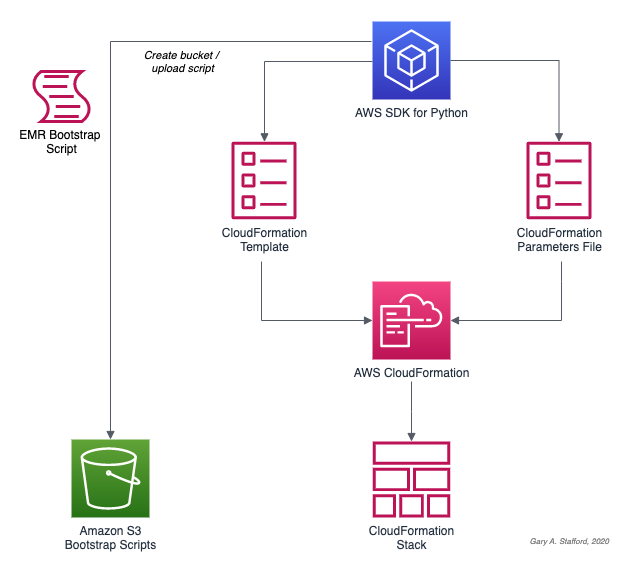
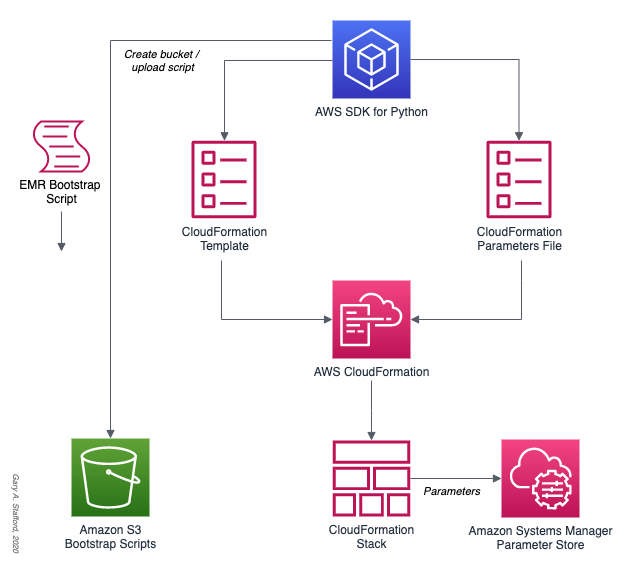
Add new master_public_dns parameter

diff --git a/parameters/parameters.py b/parameters/parameters.py
@@ -1,7 +1,7 @@
 #!/usr/bin/env python3
 
 # Purpose: Get SSM Parameter Store parameters
-# Author:  Gary A. Stafford (November 2020)
+# Author:  Gary A. Stafford (December 2020)
 
 import boto3
 
@@ -22,6 +22,7 @@ def get_parameters():
         'glue_db_bucket': ssm_client.get_parameter(Name='/emr_demo/glue_db_bucket')['Parameter']['Value'],
         'gold_bucket': ssm_client.get_parameter(Name='/emr_demo/gold_bucket')['Parameter']['Value'],
         'logs_bucket': ssm_client.get_parameter(Name='/emr_demo/logs_bucket')['Parameter']['Value'],
+        'master_public_dns': ssm_client.get_parameter(Name='/emr_demo/master_public_dns')['Parameter']['Value'],
         'silver_bucket': ssm_client.get_parameter(Name='/emr_demo/silver_bucket')['Parameter']['Value'],
         'sm_log_group_arn': ssm_client.get_parameter(Name='/emr_demo/sm_log_group_arn')['Parameter']['Value'],
         'sm_role_arn': ssm_client.get_parameter(Name='/emr_demo/sm_role_arn')['Parameter']['Value'],
